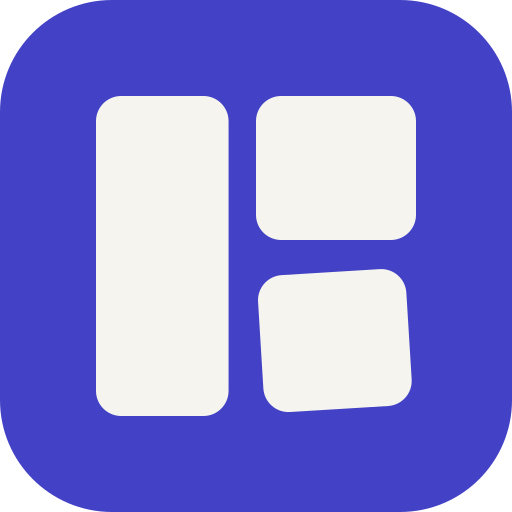
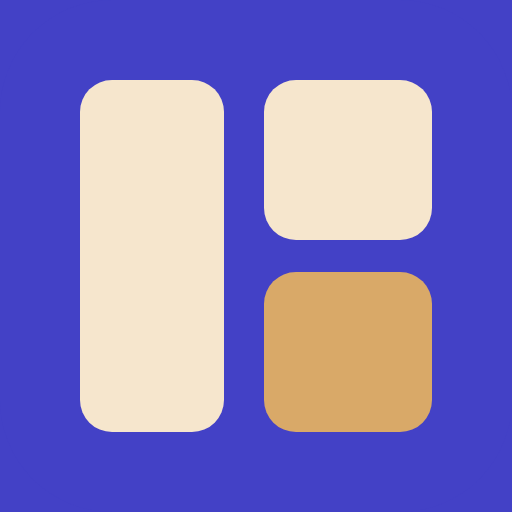
feat(web): refresh brand assets and the workshop login scene
New icon set (favicon, touch, maskable), a workshop illustration on the
login brand panel, and a polish pass across the admin and workshop
screens.

diff --git a/web/src/shared/views/AdminWorkshopDetailView.vue b/web/src/shared/views/AdminWorkshopDetailView.vue
@@ -121,7 +121,7 @@ async function confirmOwnerReset() {
     secretOpen.value = true
   } catch {
     resetConfirmOpen.value = false
-    toast.danger("Egasining parolini tiklab bo'lmadi")
+    toast.danger("Rahbarning parolini tiklab bo'lmadi")
   } finally {
     resetting.value = false
   }
@@ -235,13 +235,13 @@ onMounted(() => admin.loadWorkshop(workshopId))
             <dd class="mt-1 text-base font-bold text-ink">{{ admin.detail.workshop.name }}</dd>
           </div>
           <div>
-            <dt class="text-xs font-extrabold uppercase text-ink-muted">Ega</dt>
+            <dt class="text-xs font-extrabold uppercase text-ink-muted">Rahbar</dt>
             <dd class="mt-1 flex flex-wrap items-center gap-3 text-base font-bold text-ink">
               <span class="font-mono text-sm">{{ admin.detail.owner.login }}</span>
               <button
                 type="button"
                 class="mp-button mp-button-outline min-h-8 px-2.5 text-xs"
-                :aria-label="`${admin.detail.owner.login} egasining parolini tiklash`"
+                :aria-label="`${admin.detail.owner.login} rahbarining parolini tiklash`"
                 @click="resetConfirmOpen = true"
               >
                 Parolni tiklash
@@ -324,7 +324,7 @@ onMounted(() => admin.loadWorkshop(workshopId))
       </div>
       <div class="admin-card-b">
         <article class="admin-row-item">
-          <span class="admin-pill admin-pill-success">Egasi</span>
+          <span class="admin-pill admin-pill-success">Rahbar</span>
           <span>
             <b class="font-mono">{{ admin.detail.owner.login }}</b>
           </span>
@@ -402,7 +402,7 @@ onMounted(() => admin.loadWorkshop(workshopId))
 
     <ConfirmDialog
       :open="resetConfirmOpen"
-      title="Egasining parolini tiklash"
+      title="Rahbarning parolini tiklash"
       :message="`${admin.detail.owner.login} uchun yangi vaqtinchalik parol yaratiladi va uning barcha sessiyalari darhol bekor qilinadi.`"
       confirm-label="Parolni tiklash"
       busy-label="Tiklanmoqda"
@@ -416,7 +416,7 @@ onMounted(() => admin.loadWorkshop(workshopId))
     <AdminSecretModal
       :open="secretOpen && !!admin.lastOwnerSecret"
       title="Vaqtinchalik parol — bir martalik maxfiy ma'lumot"
-      intro="Login va vaqtinchalik parolni ustaxona egasiga yetkazing. Ega birinchi kirishda uni almashtiradi."
+      intro="Login va vaqtinchalik parolni ustaxona rahbariga yetkazing. Rahbar birinchi kirishda uni almashtiradi."
       :rows="secretRows"
       @close="closeSecret"
     />

diff --git a/web/src/shared/views/WorkshopLoginView.vue b/web/src/shared/views/WorkshopLoginView.vue
@@ -4,6 +4,7 @@ import { RouterLink } from 'vue-router'
 
 import Icon from '@/shared/components/AppIcon.vue'
 import { useStaffLogin } from '@/shared/composables/useStaffLogin'
+import workshopSceneUrl from '@/assets/login-workshop-scene.svg'
 
 const { config, login, password, isSubmitting, error, submit } = useStaffLogin()
 
@@ -28,19 +29,16 @@ const valuePoints = ['Buyurtmalar oqimi', 'Ishlab chiqarish navbati', 'Ombor va 
   <main class="grid min-h-screen text-ink lg:grid-cols-[1.05fr_1fr]">
     <!-- Brand panel — hidden below lg; the form carries the brand on mobile. -->
     <section
-      class="relative hidden flex-col justify-center gap-10 bg-accent px-12 py-12 text-white lg:flex xl:px-16"
+      class="relative hidden flex-col overflow-hidden bg-accent px-12 py-12 text-white lg:flex xl:px-16"
     >
-      <RouterLink
-        :to="config.homePath"
-        class="absolute left-12 top-12 flex items-center gap-3 xl:left-16 xl:top-16"
-      >
+      <RouterLink :to="config.homePath" class="flex items-center gap-3">
         <span class="inline-flex size-9 items-center justify-center rounded-lg bg-white">
           <img src="/favicon.svg" alt="" class="size-6" />
         </span>
         <span class="font-serif text-xl font-semibold">{{ config.productLabel }}</span>
       </RouterLink>
 
-      <div class="max-w-md">
+      <div class="z-10 my-auto max-w-md py-10">
         <h1 class="font-serif text-4xl font-semibold leading-tight">
           Ustaxonangizni bir joydan boshqaring
         </h1>
@@ -59,6 +57,14 @@ const valuePoints = ['Buyurtmalar oqimi', 'Ishlab chiqarish navbati', 'Ombor va 
           </li>
         </ul>
       </div>
+
+      <!-- Flat workshop illustration, bottom-anchored band (aspect locked). -->
+      <img
+        :src="workshopSceneUrl"
+        alt=""
+        class="pointer-events-none mt-8 w-full select-none"
+        aria-hidden="true"
+      />
     </section>
 
     <!-- Form panel -->
@@ -71,7 +77,6 @@ const valuePoints = ['Buyurtmalar oqimi', 'Ishlab chiqarish navbati', 'Ombor va 
 
         <div class="mp-surface p-6 md:p-7" aria-labelledby="signin-title">
           <h2 id="signin-title" class="font-serif text-2xl font-semibold">Kirish</h2>
-          <p class="mt-1 text-sm text-ink-soft">Login va parol bilan kiring.</p>
 
           <form class="mt-6 space-y-4" @submit.prevent="submit">
             <label class="block">

diff --git a/web/src/shared/views/AdminWorkshopsView.vue b/web/src/shared/views/AdminWorkshopsView.vue
@@ -102,7 +102,7 @@ const secretRows = computed(() => {
   const provision = admin.lastProvision
   if (!provision) return []
   return [
-    { label: 'Ega login', value: provision.owner.login },
+    { label: 'Rahbar login', value: provision.owner.login },
     { label: 'Vaqtinchalik parol', value: provision.temp_password },
   ]
 })
@@ -318,7 +318,7 @@ onMounted(async () => {
     <div class="admin-filters">
       <label class="admin-filter-input">
         <span>Qidirish</span>
-        <input v-model="search" placeholder="Ustaxona nomi yoki egasi" />
+        <input v-model="search" placeholder="Ustaxona nomi yoki rahbari" />
       </label>
       <FormSelect
         v-model="statusFilter"
@@ -353,7 +353,7 @@ onMounted(async () => {
           <thead>
             <tr>
               <th>Ustaxona</th>
-              <th>Egasi</th>
+              <th>Rahbar</th>
               <th>Filiallar</th>
               <th>Yaratildi</th>
               <th>Holat</th>
@@ -420,7 +420,7 @@ onMounted(async () => {
         @keydown="provisionTrap.onKeydown"
       >
         <div class="admin-modal-h">
-          <h3 id="new-workshop-title">Yangi ustaxona va egasi</h3>
+          <h3 id="new-workshop-title">Yangi ustaxona va rahbari</h3>
           <button
             type="button"
             class="admin-icon-button"
@@ -507,7 +507,7 @@ onMounted(async () => {
                 </span>
               </label>
               <label class="admin-field" for="o-login">
-                <span>Ega login</span>
+                <span>Rahbar login</span>
                 <input
                   id="o-login"
                   v-model="form.ownerLogin"
@@ -640,7 +640,7 @@ onMounted(async () => {
     <AdminSecretModal
       :open="secretOpen && !!admin.lastProvision"
       title="Ustaxona qo'shildi — bir martalik maxfiy ma'lumot"
-      intro="Ega login va vaqtinchalik parolni ustaxona egasiga yetkazing."
+      intro="Rahbar login va vaqtinchalik parolni ustaxona rahbariga yetkazing."
       :rows="secretRows"
       @close="closeSecret"
     />

diff --git a/web/src/shared/views/WorkshopProfileView.vue b/web/src/shared/views/WorkshopProfileView.vue
@@ -36,13 +36,13 @@ const isSaving = ref(false)
 const accountLabel = computed(() => auth.displayName)
 const scopeLabel = computed(() => {
   if (auth.me?.principal_type === 'workshop_user') {
-    return auth.me.is_owner ? 'Egasi · barcha ruxsatlar' : `${auth.me.grants.length} ruxsat`
+    return auth.me.is_owner ? 'Rahbar · barcha ruxsatlar' : `${auth.me.grants.length} ruxsat`
   }
   if (auth.me?.principal_type === 'platform_user') return 'Platforma operatori'
   return auth.me?.preferred_branch_id ? 'Afzal filial tanlangan' : 'Afzal filial tanlanmagan'
 })
 const workshopProfileSubtitle = computed(() => {
-  const role = auth.me?.is_owner ? 'Egasi' : 'Xodim'
+  const role = auth.me?.is_owner ? 'Rahbar' : 'Xodim'
   const tenant = workshop.settings?.name?.trim() || config.tenantLabel
   return `${auth.displayName} · ${role} · ${tenant}`
 })
@@ -173,7 +173,7 @@ onMounted(async () => {
           </div>
           <div class="row-item">
             <div>
-              <div class="nm">Egasi</div>
+              <div class="nm">Rahbar</div>
             </div>
             <div class="meta">
               <span
@@ -209,10 +209,10 @@ onMounted(async () => {
         <div class="card-b">
           <div v-if="auth.me?.is_owner" class="client-banner warn mb-0">
             <span class="font-extrabold">i</span>
-            <span>Egasi sifatida barcha filialda barcha ruxsatga avtomatik egasiz.</span>
+            <span>Rahbar sifatida barcha filialda barcha ruxsatga avtomatik egasiz.</span>
           </div>
           <p v-else-if="workshopGrantRows.length === 0" class="text-sm text-ink-soft">
-            Sizga hali hech qanday ruxsat berilmagan — ustaxona egasiga murojaat qiling.
+            Sizga hali hech qanday ruxsat berilmagan — ustaxona rahbariga murojaat qiling.
           </p>
           <div v-else class="divide-y divide-hairline">
             <div

diff --git a/web/src/shared/views/WorkshopUserDetailView.vue b/web/src/shared/views/WorkshopUserDetailView.vue
@@ -319,8 +319,8 @@ onBeforeUnmount(() => window.clearTimeout(copiedResetTimer))
     <RouterLink :to="rolePath('/workshop/settings/users')" class="back">← Xodimlar</RouterLink>
 
     <section v-if="!auth.me?.is_owner" class="st-empty">
-      <h3>Bu bo'lim faqat ustaxona egasi uchun</h3>
-      <p>Ruxsatlar va sessiyalarni egasi boshqaradi.</p>
+      <h3>Bu bo'lim faqat ustaxona rahbari uchun</h3>
+      <p>Ruxsatlar va sessiyalarni rahbar boshqaradi.</p>
     </section>
 
     <section v-else-if="workshop.loading" class="card p-5" aria-live="polite">
@@ -352,7 +352,7 @@ onBeforeUnmount(() => window.clearTimeout(copiedResetTimer))
             <div>
               <h1>
                 {{ user.full_name }}
-                <span v-if="user.is_owner" class="pill p-cut ml-2 align-middle">Egasi</span>
+                <span v-if="user.is_owner" class="pill p-cut ml-2 align-middle">Rahbar</span>
                 <span
                   v-else
                   class="ml-2 align-middle"
@@ -426,7 +426,7 @@ onBeforeUnmount(() => window.clearTimeout(copiedResetTimer))
         </div>
       </div>
       <div v-else-if="user.is_owner" class="banner info mt-3">
-        <div class="grow">Egasi bloklanmaydi va barcha ruxsatlarga ega.</div>
+        <div class="grow">Rahbar bloklanmaydi va barcha ruxsatlarga ega.</div>
       </div>
 
       <AppTabs
@@ -577,7 +577,7 @@ onBeforeUnmount(() => window.clearTimeout(copiedResetTimer))
         </div>
         <div class="card-b">
           <div v-if="user.is_owner" class="banner info">
-            <div class="grow">Egasi avtomatik tarzda barcha filialda barcha ruxsatga ega.</div>
+            <div class="grow">Rahbar avtomatik tarzda barcha filialda barcha ruxsatga ega.</div>
           </div>
           <div class="table-wrap">
             <table class="matrix">

diff --git a/web/src/shared/app/clientUi.ts b/web/src/shared/app/clientUi.ts
@@ -213,11 +213,16 @@ const CLIENT_ICON_PATHS: Record<string, string> = {
   store: '<path d="M4 10h16l-1-5H5l-1 5Z"/><path d="M6 10v10h12V10"/><path d="M9 20v-6h6v6"/>',
   lock: '<rect x="5" y="11" width="14" height="9" rx="2"/><path d="M8 11V7a4 4 0 0 1 8 0v4"/>',
   check: '<path d="M20 6 9 17l-5-5"/>',
+  board:
+    '<rect x="3.5" y="4" width="5" height="12" rx="1"/><rect x="9.5" y="4" width="5" height="16" rx="1"/><rect x="15.5" y="4" width="5" height="9" rx="1"/>',
+  table:
+    '<rect x="3.5" y="4.5" width="17" height="15" rx="2"/><path d="M3.5 9.5h17"/><path d="M3.5 14.5h17"/>',
   'chevron-down': '<path d="m6 9 6 6 6-6"/>',
   'chevron-right': '<path d="m9 18 6-6-6-6"/>',
   search: '<circle cx="11" cy="11" r="7"/><path d="m21 21-4.35-4.35"/>',
   monitor: '<rect x="3" y="4" width="18" height="12" rx="2"/><path d="M8 20h8M12 16v4"/>',
   pencil: '<path d="M12 20h9"/><path d="M16.5 3.5a2.12 2.12 0 0 1 3 3L7 19l-4 1 1-4Z"/>',
+  clock: '<circle cx="12" cy="12" r="8.5"/><path d="M12 7.5V12l3 2"/>',
   swap: '<path d="M8 3 4 7l4 4"/><path d="M4 7h16"/><path d="m16 21 4-4-4-4"/><path d="M20 17H4"/>',
   trash:
     '<path d="M4 7h16"/><path d="M10 11v6M14 11v6"/><path d="M6 7l1 13a2 2 0 0 0 2 2h6a2 2 0 0 0 2-2l1-13"/><path d="M9 7V4h6v3"/>',

diff --git a/web/src/shared/app/workshopUi.ts b/web/src/shared/app/workshopUi.ts
@@ -77,7 +77,7 @@ export function grantSummary(
   isOwner: boolean,
   grants: Array<{ permission: string; branch_id: string }>,
 ) {
-  if (isOwner) return 'Egasi · barcha ruxsatlar'
+  if (isOwner) return 'Rahbar · barcha ruxsatlar'
   if (grants.length === 0) return 'Ruxsat berilmagan'
   const branches = new Set(grants.map((grant) => grant.branch_id))
   const permissions = new Set(grants.map((grant) => grant.permission))
@@ -104,6 +104,8 @@ export const workshopErrorMessages: Record<string, string> = {
   order_revision_branch_locked:
     "Tahrir buyurtmaning filialida qoladi — filialni o'zgartirib bo'lmaydi.",
   order_revision_failed: "Tahrirni boshlab bo'lmadi. Qayta urinib ko'ring.",
+  cutting_already_started: "Kesish allaqachon boshlangan — kesuvchini o'zgartirib bo'lmaydi.",
+  banding_already_started: "Kromka ishi allaqachon boshlangan — ustani o'zgartirib bo'lmaydi.",
   cutting_complete_failed: "Kesishni tugatib bo'lmadi. Qayta urinib ko'ring.",
   banding_complete_failed: "Kromka ishini tugatib bo'lmadi. Qayta urinib ko'ring.",
   expense_save_failed: "Xarajatni yozib bo'lmadi. Ma'lumotlarni tekshirib, qayta urinib ko'ring.",

diff --git a/web/landing/index.html b/web/landing/index.html
@@ -785,11 +785,9 @@
       <a href="#" class="brand" aria-label="Mebel Pro — bosh sahifa"><svg class="brand__mark" viewBox="0 0 32 32"
           role="img" aria-label="Mebel Pro" xmlns="http://www.w3.org/2000/svg">
           <rect width="32" height="32" rx="7" fill="#4341C6" />
-          <g fill="#F5F4EF" transform="translate(4.571,4.571) scale(0.7143)">
-            <rect x="2" y="2" width="11.6" height="28" rx="2.2" />
-            <rect x="16" y="2" width="14" height="12.6" rx="2.2" />
-            <rect x="16.4" y="17.4" width="13" height="12" rx="2.2" transform="rotate(-3.5 22.9 23.4)" />
-          </g>
+          <rect x="5" y="5" width="9" height="22" rx="2" fill="#F6E6CD" />
+          <rect x="16.5" y="5" width="10.5" height="10" rx="2" fill="#F6E6CD" />
+          <rect x="16.5" y="17" width="10.5" height="10" rx="2" fill="#D9A968" />
         </svg><span>Mebel Pro</span></a>
       <div class="nav__links">
         <a class="nav__link" href="#mahsulotlar">Ustaxona</a>

diff --git a/web/src/shared/views/WorkshopUsersView.vue b/web/src/shared/views/WorkshopUsersView.vue
@@ -306,8 +306,8 @@ onBeforeUnmount(() => {
     </div>
 
     <section v-if="!auth.me?.is_owner" class="st-empty">
-      <h3>Bu bo'lim faqat ustaxona egasi uchun</h3>
-      <p>Xodimlar va ruxsatlar matritsasini egasi boshqaradi.</p>
+      <h3>Bu bo'lim faqat ustaxona rahbari uchun</h3>
+      <p>Xodimlar va ruxsatlar matritsasini rahbar boshqaradi.</p>
     </section>
 
     <template v-else>
@@ -540,7 +540,7 @@ onBeforeUnmount(() => {
                     <span class="min-w-0">
                       <span class="nm">
                         {{ user.full_name }}
-                        <span v-if="user.is_owner" class="pill p-cut ml-1">Egasi</span>
+                        <span v-if="user.is_owner" class="pill p-cut ml-1">Rahbar</span>
                       </span>
                       <small class="block truncate text-ink-muted">{{ user.phone }}</small>
                     </span>

diff --git a/web/src/shared/views/WorkshopSettingsView.vue b/web/src/shared/views/WorkshopSettingsView.vue
@@ -118,8 +118,8 @@ onMounted(() => {
     </div>
 
     <div v-if="!auth.me?.is_owner" class="st-empty">
-      <h3>Bu sahifa faqat ustaxona egasiga ochiq</h3>
-      <p>Sizda bu bo'limni ko'rish uchun ruxsat yo'q — ustaxona egasiga murojaat qiling.</p>
+      <h3>Bu sahifa faqat ustaxona rahbariga ochiq</h3>
+      <p>Sizda bu bo'limni ko'rish uchun ruxsat yo'q — ustaxona rahbariga murojaat qiling.</p>
     </div>
 
     <div v-else-if="workshop.setupLoading" class="card max-w-[720px] p-5" aria-live="polite">

diff --git a/web/src/shared/components/AppShell.vue b/web/src/shared/components/AppShell.vue
@@ -68,7 +68,7 @@ const tenantLabel = computed(() => {
 const tenantMeta = computed(() => {
   if (!auth.me) return config.tenantMeta
   if (config.role === 'workshop') {
-    return auth.me.is_owner ? 'Egasi · barcha ruxsatlar' : grantSummary(false, auth.me.grants)
+    return auth.me.is_owner ? 'Rahbar · barcha ruxsatlar' : grantSummary(false, auth.me.grants)
   }
   if (config.role === 'client') return auth.me.phone ?? auth.displayName
   if (config.role === 'admin') return auth.displayName

diff --git a/web/src/shared/components/AdminSecretModal.vue b/web/src/shared/components/AdminSecretModal.vue
@@ -60,7 +60,7 @@ async function copyAll() {
           class="mb-4 rounded-md bg-warning-soft px-3 py-2 text-sm font-bold text-warning"
           role="alert"
         >
-          Bu maxfiy ma'lumot faqat shu yerda bir marta ko'rsatiladi — egasiga yetkazib, saqlab
+          Bu maxfiy ma'lumot faqat shu yerda bir marta ko'rsatiladi — rahbariga yetkazib, saqlab
           oling.
         </p>
         <p v-if="intro" class="mb-3 text-sm text-ink-soft">{{ intro }}</p>
